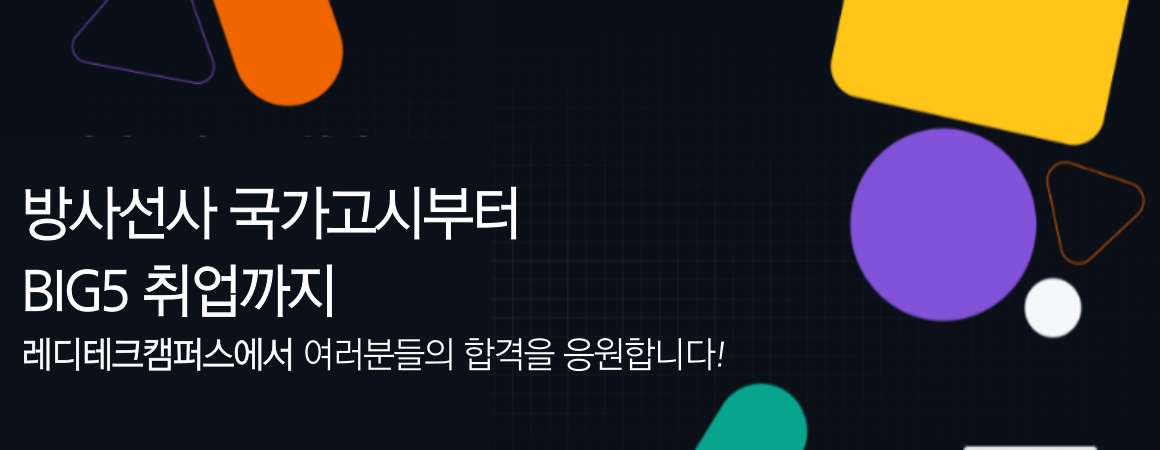
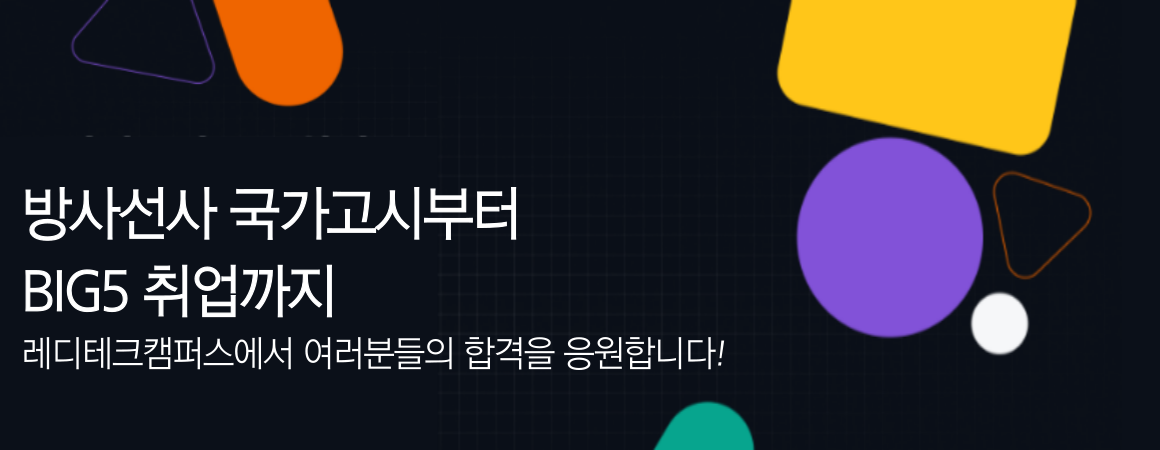
fix: 배너, 푸터

diff --git a/components/footer/index.jsx b/components/footer/index.jsx
@@ -1,0 +1,70 @@
+import styled from "@emotion/styled";
+import React from "react";
+
+const FooterContainer = styled.div`
+  display: flex;
+  flex-direction: column;
+  align-items: center;
+  justify-content: space-between;
+  /* padding: 15px 20px; */
+  margin: 0px auto;
+  width: 1160px;
+`;
+const Divider = styled.div`
+  border-bottom: 0.1rem solid #e6e8eb;
+  margin: 20px 0px;
+  width: 100%;
+`;
+
+const BottomContainer = styled.div`
+  display: flex;
+  width: 1160px;
+  background-color: aqua;
+`;
+
+const LeftContainer = styled.div`
+  width: 33%;
+`;
+const CenterContainer = styled.div`
+  width: 33%;
+`;
+const RightContainer = styled.div`
+  width: 33%;
+`;
+
+const FooterTitle = styled.div``;
+const FooterContent = styled.div``;
+
+export default function Footer() {
+  return (
+    <FooterContainer>
+      <Divider />
+      <BottomContainer>
+        <LeftContainer>
+          <FooterTitle>RadiTech-campus</FooterTitle>
+          <FooterContent>㈜하이웨이</FooterContent>
+          <FooterContent>대표 : 이광자</FooterContent>
+          <FooterContent>사업자번호 : 731-90-01929</FooterContent>
+          <FooterContent>주소 :서울특별시 강서구 허준로 139</FooterContent>
+          <FooterContent>
+            통신판매업 신고번호 : 2023-서울강서-1834
+          </FooterContent>
+          <FooterContent>
+            고객센터 이메일: raditech.campus@gmail.com 
+          </FooterContent>
+        </LeftContainer>
+        <CenterContainer>
+          <FooterTitle>LEGAL</FooterTitle>
+          <FooterContent>취소 및 환불 정책 : </FooterContent>
+          <FooterContent>유료 결제하여도 강연 및 강연 자료 등</FooterContent>
+          <FooterContent>
+            유료 서비스를 이용하지 않았다면 환불 가능합니다.
+          </FooterContent>
+        </CenterContainer>
+        <RightContainer>
+          <FooterContent>RadiTech-campus</FooterContent>
+        </RightContainer>
+      </BottomContainer>
+    </FooterContainer>
+  );
+}

diff --git a/components/layout/index.tsx b/components/layout/index.tsx
@@ -2,6 +2,7 @@ import styled from "@emotion/styled";
 import React from "react";
 import Header from "../header";
 import TopNav from "../topnav";
+import Footer from "../footer";
 
 const LayoutContainer = styled.div`
   /* display: flex;
@@ -27,6 +28,7 @@ export default function Layout({ children }: any) {
       <Header />
       {/* <TopNav /> */}
       {children}
+      <Footer />
     </LayoutContainer>
   );
 }

diff --git a/pages/index.jsx b/pages/index.jsx
@@ -85,11 +85,11 @@ export default function Index() {
           style={{
             width: "1160px",
             height: "450px",
-            backgroundColor: "#0B1019",
+            backgroundColor: "#02162E",
           }}
         >
           <Image
-            src="/1.png"
+            src="/2.png"
             alt="메인 배경 이미지"
             style={{ objectFit: "contain" }}
             fill
